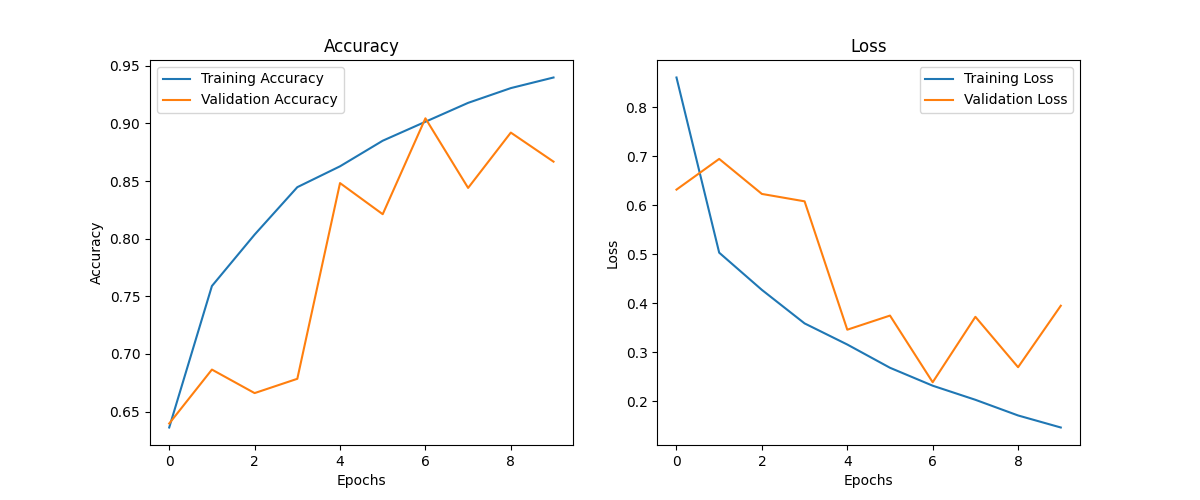
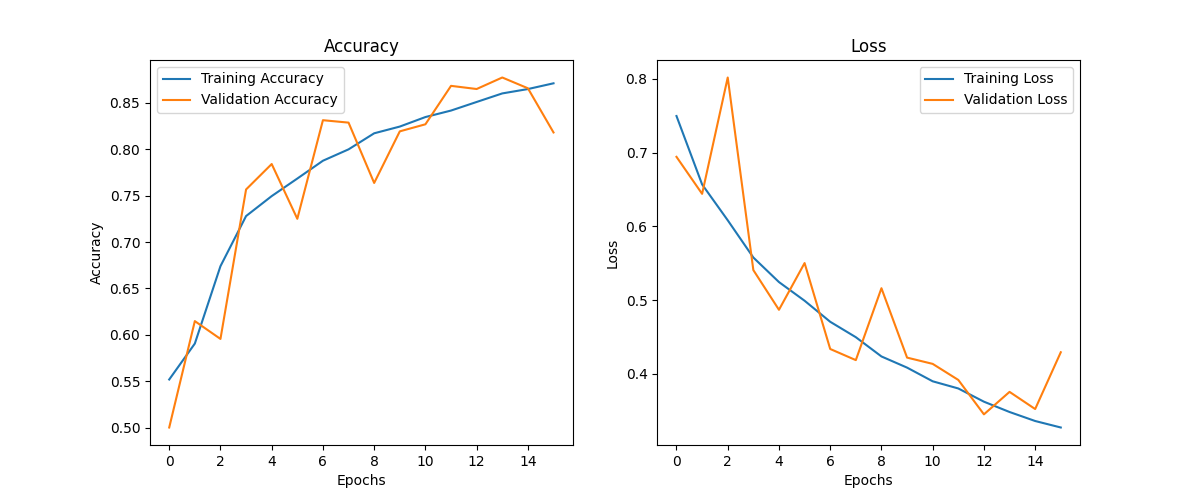
update

diff --git a/train.py b/train.py
@@ -10,21 +10,6 @@ data_train, labels_train = data_loader('data/train', ['cats', 'dogs'])
 data_test, labels_test = data_loader('data/test', ['cats', 'dogs'])
 
 x = tf.keras.Sequential()
-# x.add(tf.keras.layers.Conv2D(32, (3, 3), (1, 1), input_shape=(130, 130, 1)))
-# x.add(tf.keras.layers.BatchNormalization())
-# x.add(tf.keras.layers.Activation('relu'))
-# x.add(tf.keras.layers.MaxPooling2D((2, 2)))
-
-# x.add(tf.keras.layers.Conv2D(64, (3, 3), (1, 1)))
-# x.add(tf.keras.layers.BatchNormalization())
-# x.add(tf.keras.layers.Activation('relu'))
-# x.add(tf.keras.layers.MaxPooling2D((2, 2)))
-
-# x.add(tf.keras.layers.Conv2D(128, (3, 3), (1, 1)))
-# x.add(tf.keras.layers.BatchNormalization())
-# x.add(tf.keras.layers.Activation('relu'))
-# x.add(tf.keras.layers.MaxPooling2D((2, 2)))
-
 x.add(tf.keras.layers.Conv2D(64, (3, 3), (1, 1), input_shape=(128, 128, 1)))
 x.add(tf.keras.layers.BatchNormalization())
 x.add(tf.keras.layers.Activation('relu'))
@@ -46,16 +31,13 @@ x.add(tf.keras.layers.Activation('relu'))
 x.add(tf.keras.layers.MaxPooling2D((2, 2)))
 
 x.add(tf.keras.layers.Flatten())
-x.add(tf.keras.layers.Dense(512, activation='relu'))
-x.add(tf.keras.layers.Dropout(0.3))
-# x.add(tf.keras.layers.Dense(32, activation='relu'))
-# x.add(tf.keras.layers.Dropout(0.2))
+x.add(tf.keras.layers.Dense(1024, activation='relu'))
+x.add(tf.keras.layers.Dropout(0.5))
 x.add(tf.keras.layers.Dense(1, activation='sigmoid'))
 
 x.compile(
     loss=tf.keras.losses.BinaryCrossentropy(),
     optimizer=tf.keras.optimizers.Adam(),
-    metrics=['accuracy']
 )
 early_stopping = tf.keras.callbacks.EarlyStopping(monitor='val_loss', patience=3)
 history = x.fit(x=data_train, y=labels_train, epochs=100, validation_data=(data_test, labels_test), callbacks=[early_stopping])
